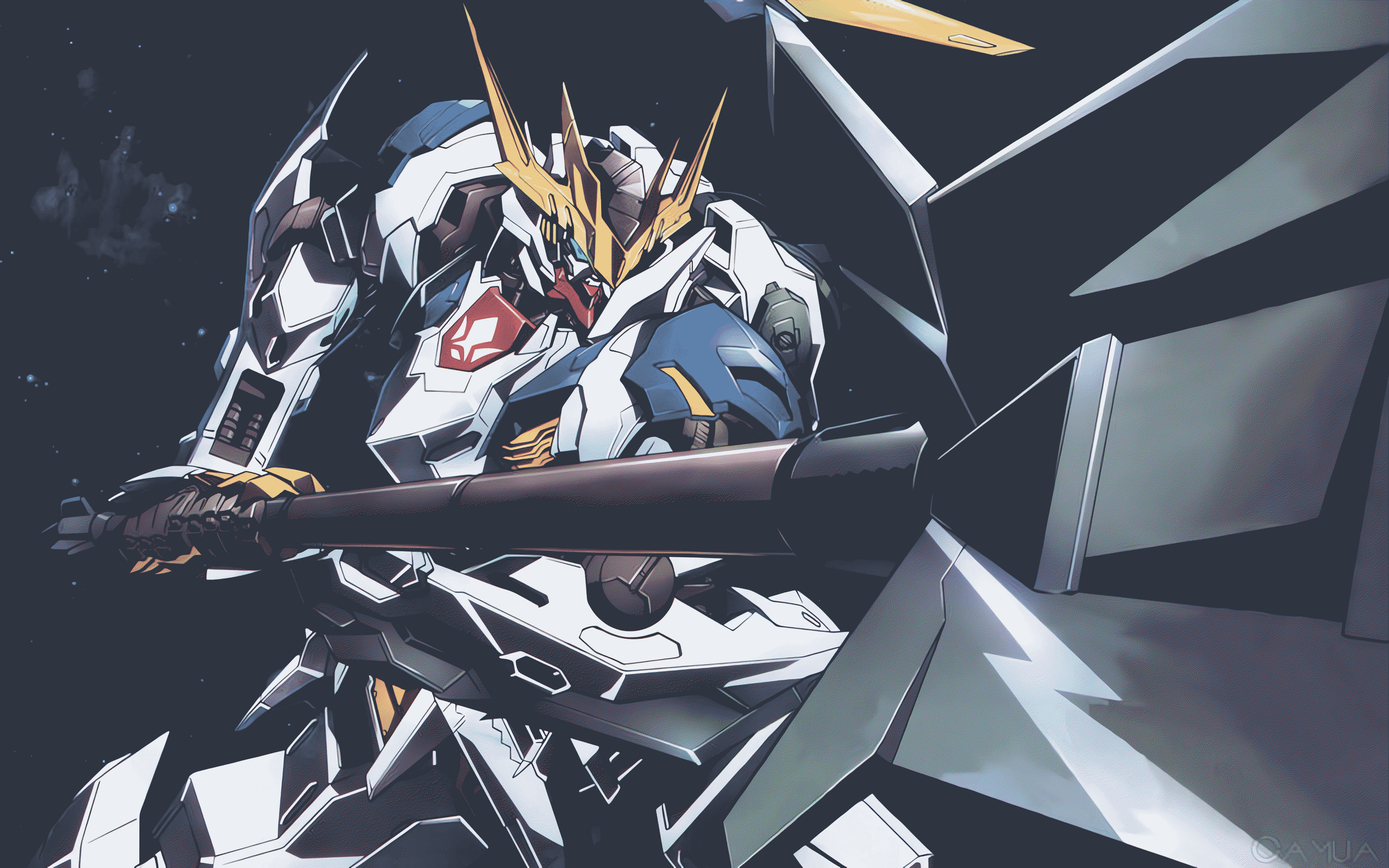
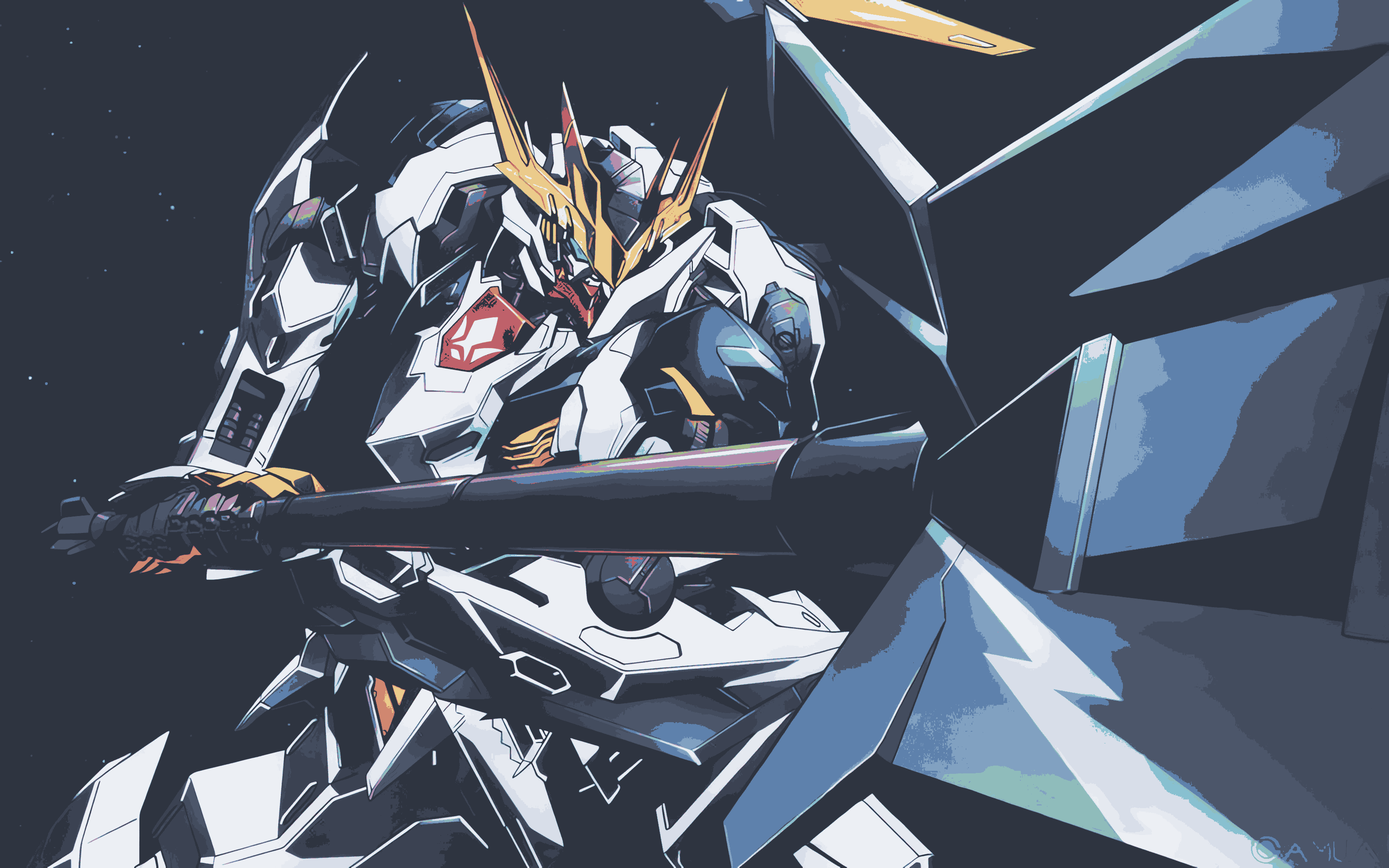
update nord wall

diff --git a/wallpapers_dark/nordify.py b/wallpapers_dark/nordify.py
@@ -2,10 +2,6 @@ from ImageGoNord import NordPaletteFile, GoNord
 
 # E.g. Replace pixel by pixel
 go_nord = GoNord()
-go_nord.enable_avg_algorithm()
-go_nord.reset_palette()
-go_nord.add_file_to_palette(NordPaletteFile.POLAR_NIGHT)
-go_nord.add_file_to_palette(NordPaletteFile.SNOW_STORM)
 image = go_nord.open_image("./dark_gundam_ibo_02.jpg")
 go_nord.convert_image(image, save_path='../wallpapers_nord/nord_gundam_barbatos.test.png')
 
